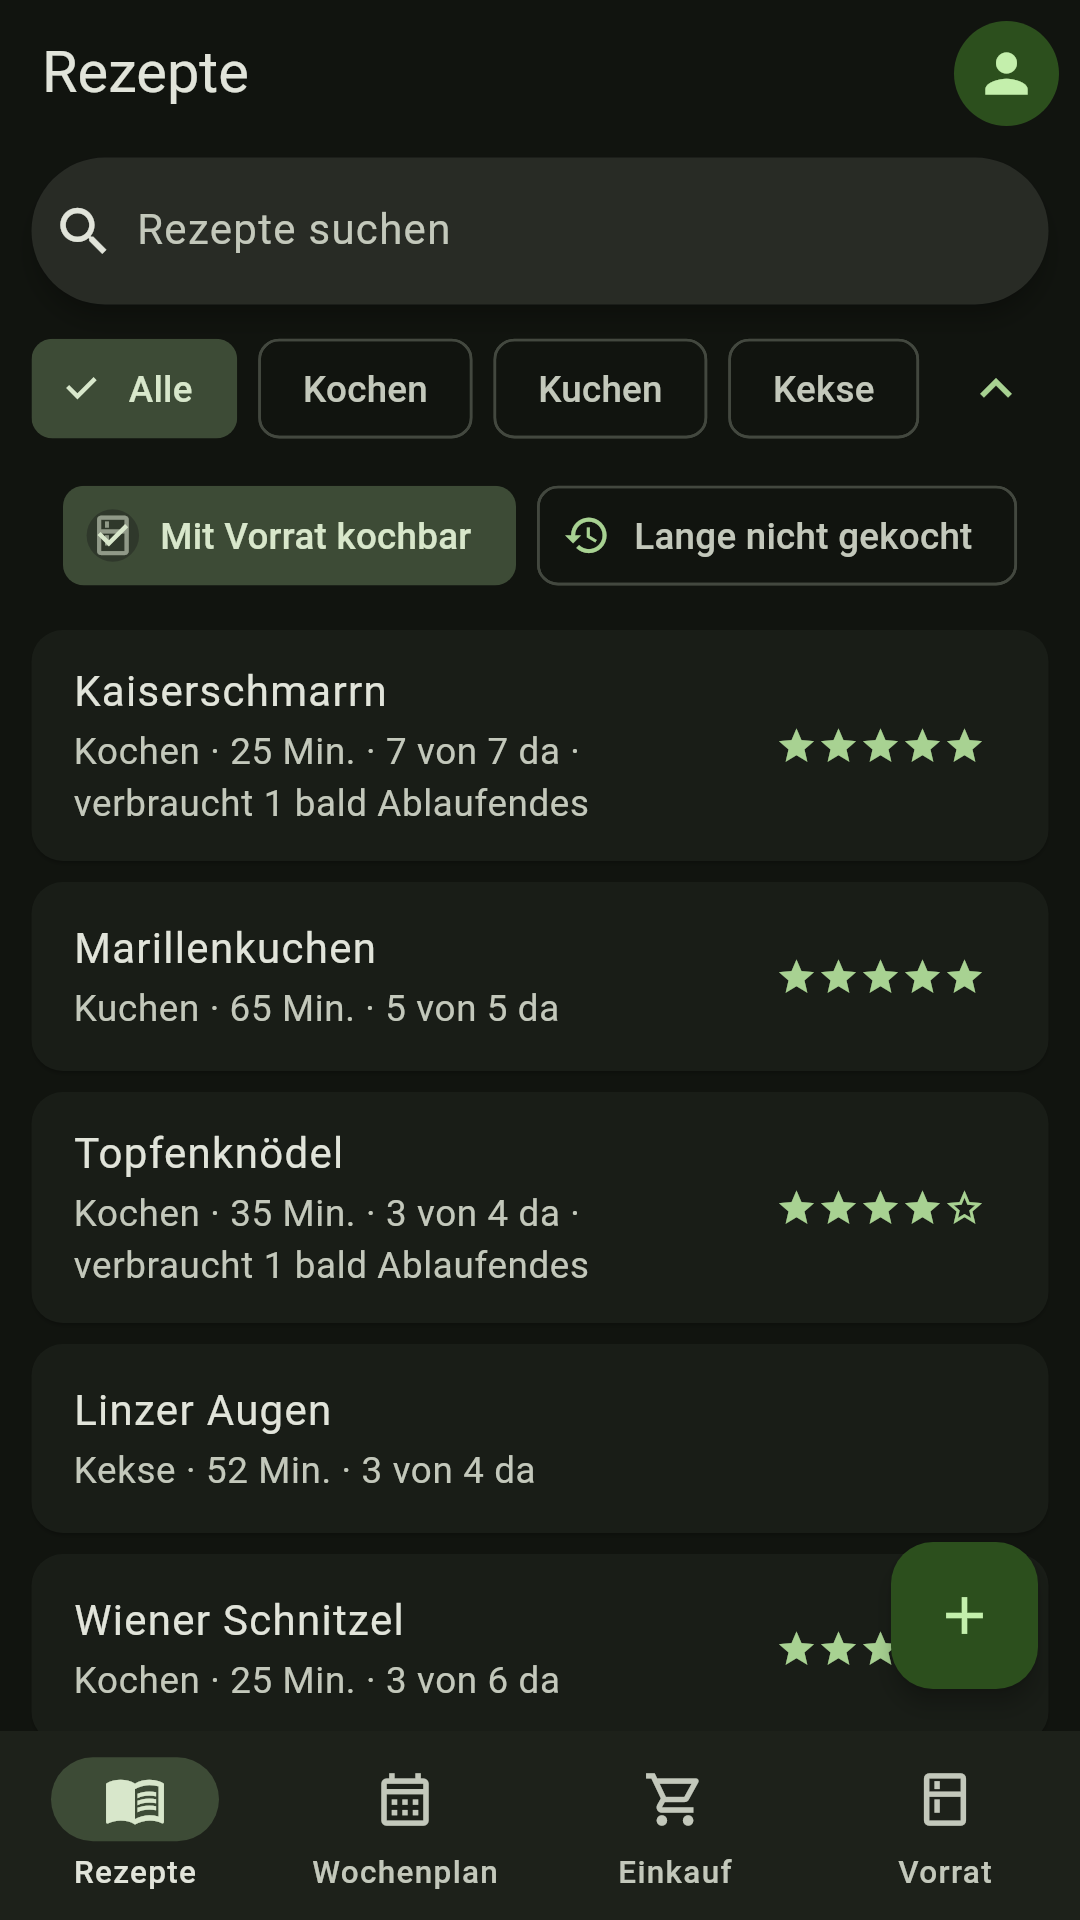
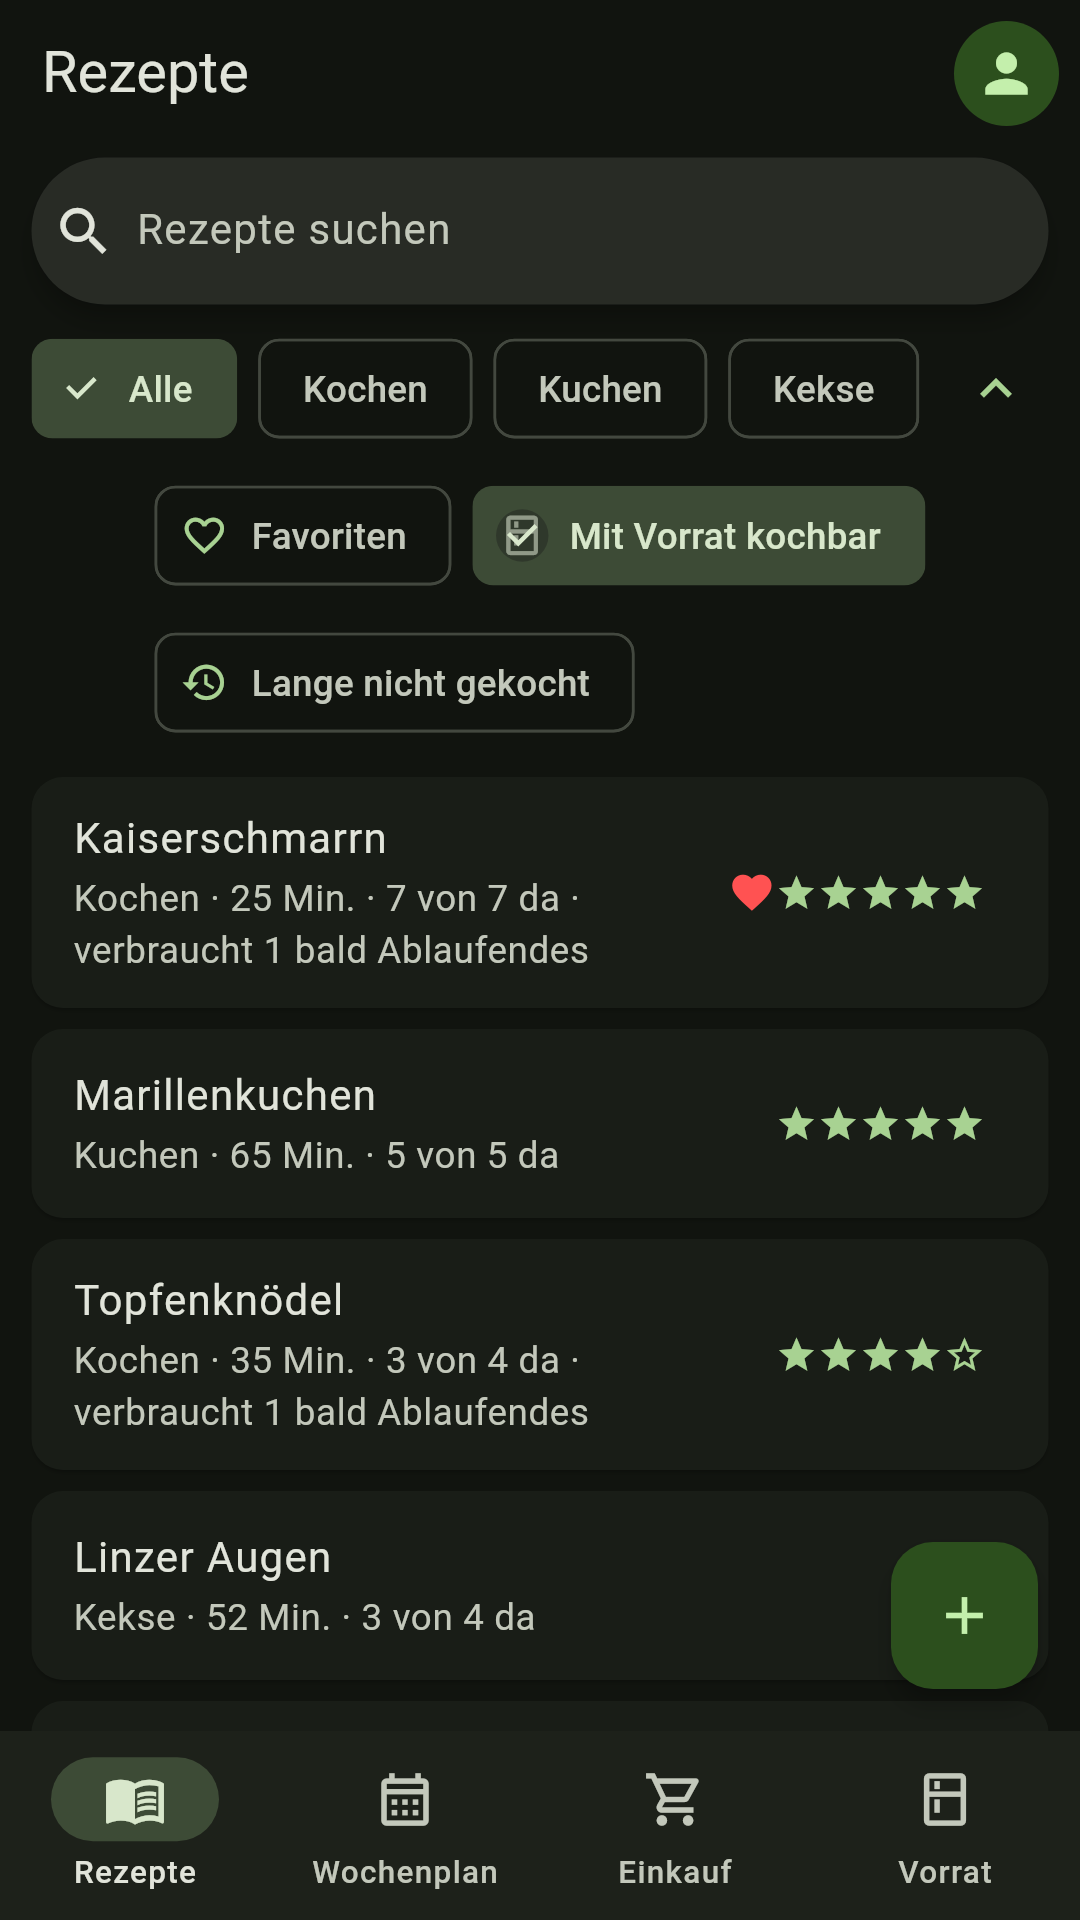
chore: store screenshots and description for the new features; TTL note
Claude-Session: https://claude.ai/code/session_01KkvtCtHsSFiBM2WWtsXAwz

diff --git a/tool/screenshots/screenshots_test.dart b/tool/screenshots/screenshots_test.dart
@@ -1,6 +1,7 @@
 // Store screenshots of the real app with demo data.
 // Run: flutter test tool/screenshots/screenshots_test.dart
 // Output: assets/branding/screenshots/*.png (1080 x 1920).
+import 'dart:async';
 import 'dart:convert';
 import 'dart:io';
 import 'dart:ui' as ui;
@@ -11,6 +12,7 @@ import 'package:flutter/material.dart';
 import 'package:flutter/rendering.dart';
 import 'package:flutter/services.dart';
 import 'package:flutter_test/flutter_test.dart';
+import 'package:go_router/go_router.dart';
 import 'package:recipes/core/matching/ingredient_matcher.dart';
 import 'package:recipes/features/auth/data/auth_repository.dart';
 import 'package:recipes/features/household/data/household_repository.dart';
@@ -343,6 +345,43 @@ void main() {
     await plan.add(day(5), 'gulasch');
     await plan.add(day(6), 'marillenkuchen');
 
+    // Favourites (hearts in the list) and learned pack sizes (shopping hint).
+    await db.collection('users').doc('u1').update({
+      'favoriteRecipeIds': ['kaiserschmarrn', 'gulasch'],
+    });
+    await db
+        .collection('households')
+        .doc(hid)
+        .collection('ingredients')
+        .doc('rindfleisch')
+        .update({
+          'packSizes': [400],
+        });
+    // A recipe someone sent (screenshot 7).
+    await db.collection('sharedRecipes').doc('K7MQX4PA').set({
+      'title': 'Apfelstrudel',
+      'createdBy': 'u2',
+      'senderName': 'Anna',
+      'message': 'Der beste Strudel – unbedingt mit Vanilleeis!',
+      'servings': 8,
+      'prepMinutes': 40,
+      'cookMinutes': 45,
+      'ingredients': [
+        '1 Pkg. Strudelteig',
+        '1,2 kg Äpfel',
+        '80 g Butter',
+        '100 g Zucker',
+        '60 g Rosinen',
+        '1 TL Zimt',
+        '50 g Semmelbrösel',
+      ],
+      'steps': [
+        'Äpfel schälen, entkernen und blättrig schneiden.',
+        'Mit Zucker, Zimt und Rosinen vermischen.',
+      ],
+      'expiresAt': null,
+    });
+
     final log = db.collection('households').doc(hid).collection('cookLog');
     for (final (rid, daysAgo) in [
       ('kaiserschmarrn', 12),
@@ -458,6 +497,14 @@ void main() {
     // 6. Pantry.
     await tab('Vorrat');
     await shot('6_vorrat');
+
+    // 7. A recipe sent from another household.
+    unawaited(
+      GoRouter.of(tester.element(find.byType(NavigationBar)))
+          .push('/shared/K7MQX4PA'),
+    );
+    await tester.pumpAndSettle();
+    await shot('7_gesendet');
     debugDisableShadows = true;
   });
 }

diff --git a/assets/branding/store_frame.py b/assets/branding/store_frame.py
@@ -6,10 +6,11 @@ fonts = '/opt/sdk/flutter/bin/cache/artifacts/material_fonts'
 shots = [
   ('1_rezepte', 'Was kann ich heute kochen?', 'BaCo zeigt, was dein Vorrat hergibt –<br>Bald-Ablaufendes zuerst.'),
   ('2_rezept', 'Alles beim Rezept', 'Portionen anpassen, Vorrat prüfen,<br>Allergien im Blick.'),
-  ('3_kochmodus', 'Kochen Schritt für Schritt', 'Timer direkt aus dem Rezept –<br>auch bei geschlossener App.'),
+  ('3_kochmodus', 'Kochen Schritt für Schritt', 'Zutaten und Timer zu jedem Schritt –<br>auch bei geschlossener App.'),
   ('4_wochenplan', 'Die Woche planen', 'Mit Rezepten und Gerichten<br>aus dem Tiefkühler.'),
-  ('5_einkauf', 'Gemeinsam einkaufen', 'Eine Liste für den ganzen Haushalt,<br>nach Abteilungen sortiert.'),
-  ('6_vorrat', 'Vorrat im Griff', 'Ablaufdaten, Mindestbestand<br>und Barcode-Scan.'),
+  ('5_einkauf', 'Gemeinsam einkaufen', 'Eine Liste für den ganzen Haushalt –<br>mit Packungsgrößen und Widget.'),
+  ('6_vorrat', 'Vorrat im Griff', 'Ablaufdaten, Mindestbestand,<br>Barcode-Scan und Inventur.'),
+  ('7_gesendet', 'Rezepte weitergeben', 'Per Link an Freunde schicken –<br>auch ohne BaCo zum Nachkochen.'),
 ]
 tpl = """<!doctype html><html><head><meta charset="utf-8"><style>
 @font-face{{font-family:R;src:url(file://{fonts}/Roboto-Bold.ttf);font-weight:700}}

diff --git a/docs/PLAY_STORE.md b/docs/PLAY_STORE.md
@@ -82,6 +82,8 @@ Play Console → **Dashboard** führt durch alles. Die Antworten:
 | App-Info und Leistung → Absturzprotokolle, Diagnosedaten | erhoben, erforderlich, Analyse (Fehlerbehebung) |
 | Geräte- oder andere IDs | erhoben, erforderlich, Analyse + Betrugsprävention (Crashlytics, App Check) |
 
+„Rezept an anderen Haushalt senden“ macht eine Rezept-Kopie (mit Name und Foto) per Link lesbar. Das löst die Person selbst aus und erwartet es – laut Google ist das **kein „Teilen“** im Sinne der Datensicherheit; die Angaben oben bleiben gleich. Die Datenschutzerklärung beschreibt es.
+
 **Store-Eintrag – Kurzbeschreibung (max. 80 Zeichen):**
 > Rezepte, Einkaufsliste und Vorrat für den ganzen Haushalt – auch offline.
 
@@ -92,13 +94,18 @@ Play Console → **Dashboard** führt durch alles. Die Antworten:
 > • Gemeinsam einkaufen: eine Einkaufsliste für alle, live abgeglichen, nach Abteilungen sortiert. Fehlende Zutaten eines Rezepts oder der ganzen Woche mit einem Tipp auf die Liste.
 > • Vorrat im Blick: was im Kühlschrank, in der Speis und im Tiefkühler ist – mit Ablaufdatum, Mindestbestand und Barcode-Scan. Gekochtes zieht automatisch ab.
 > • Was kann ich kochen? BaCo zeigt, welche Rezepte du mit dem Vorrat kochen kannst, und bevorzugt, was bald abläuft.
-> • Kochmodus: Schritt für Schritt, Bildschirm bleibt an, Timer aus dem Rezepttext – mit Erinnerung auch bei geschlossener App.
+> • Kochmodus: Schritt für Schritt mit den Zutaten des Schritts, Bildschirm bleibt an, Timer aus dem Rezepttext – mit Erinnerung auch bei geschlossener App.
 > • Wochenplan mit Rezepten und Gerichten aus dem Tiefkühler.
+> • Widgets für den Startbildschirm: Einkaufsliste zum Abhaken und was heute ansteht.
+> • Rezepte weitergeben: per Link an Freunde schicken – die können es auch ohne BaCo im Browser ansehen.
+> • Backform umrechnen, Favoriten und Sammlungen, Inventur für den Vorrat, gemerkte Packungsgrößen beim Einkaufen.
 > • Allergien pro Person mit Warnung im Rezept.
 > • Österreichisch: Topfen, Schlagobers, Paradeiser, Erdäpfel – und Mengen in Dekagramm, wenn du willst.
 > • Offline nutzbar, Abgleich sobald wieder Netz da ist. Keine Werbung.
 
-**Grafiken:** App-Symbol 512×512 PNG, Vorstellungsgrafik 1024×500, mindestens 2 Handy-Screenshots (einfach Screenshots aus der App).
+**Grafiken:** App-Symbol 512×512 PNG (`assets/branding/play_icon_512.png`), Vorstellungsgrafik 1024×500 (`assets/branding/feature_graphic_1024x500.png`), Handy-Screenshots mit Rahmen und Text: `assets/branding/store/1_rezepte.png` … `7_gesendet.png` (neu erzeugen: siehe CLAUDE.md → Befehle).
+
+**Aufräumen abgelaufener gesendeter Rezepte (einmalig):** Firebase Console → Firestore Database → Reiter **TTL** (bzw. „Time-to-live“) → **Richtlinie erstellen** → Sammlungsgruppe `sharedRecipes`, Zeitstempelfeld `expiresAt` → Erstellen. Firestore löscht abgelaufene Kopien dann automatisch (meist innerhalb von 24 h; Einträge ohne Ablaufdatum bleiben). Die Fotos dazu löscht die App des Absenders beim nächsten Start.
 
 ## 7. Danach: geschlossener Test → Produktion
 
